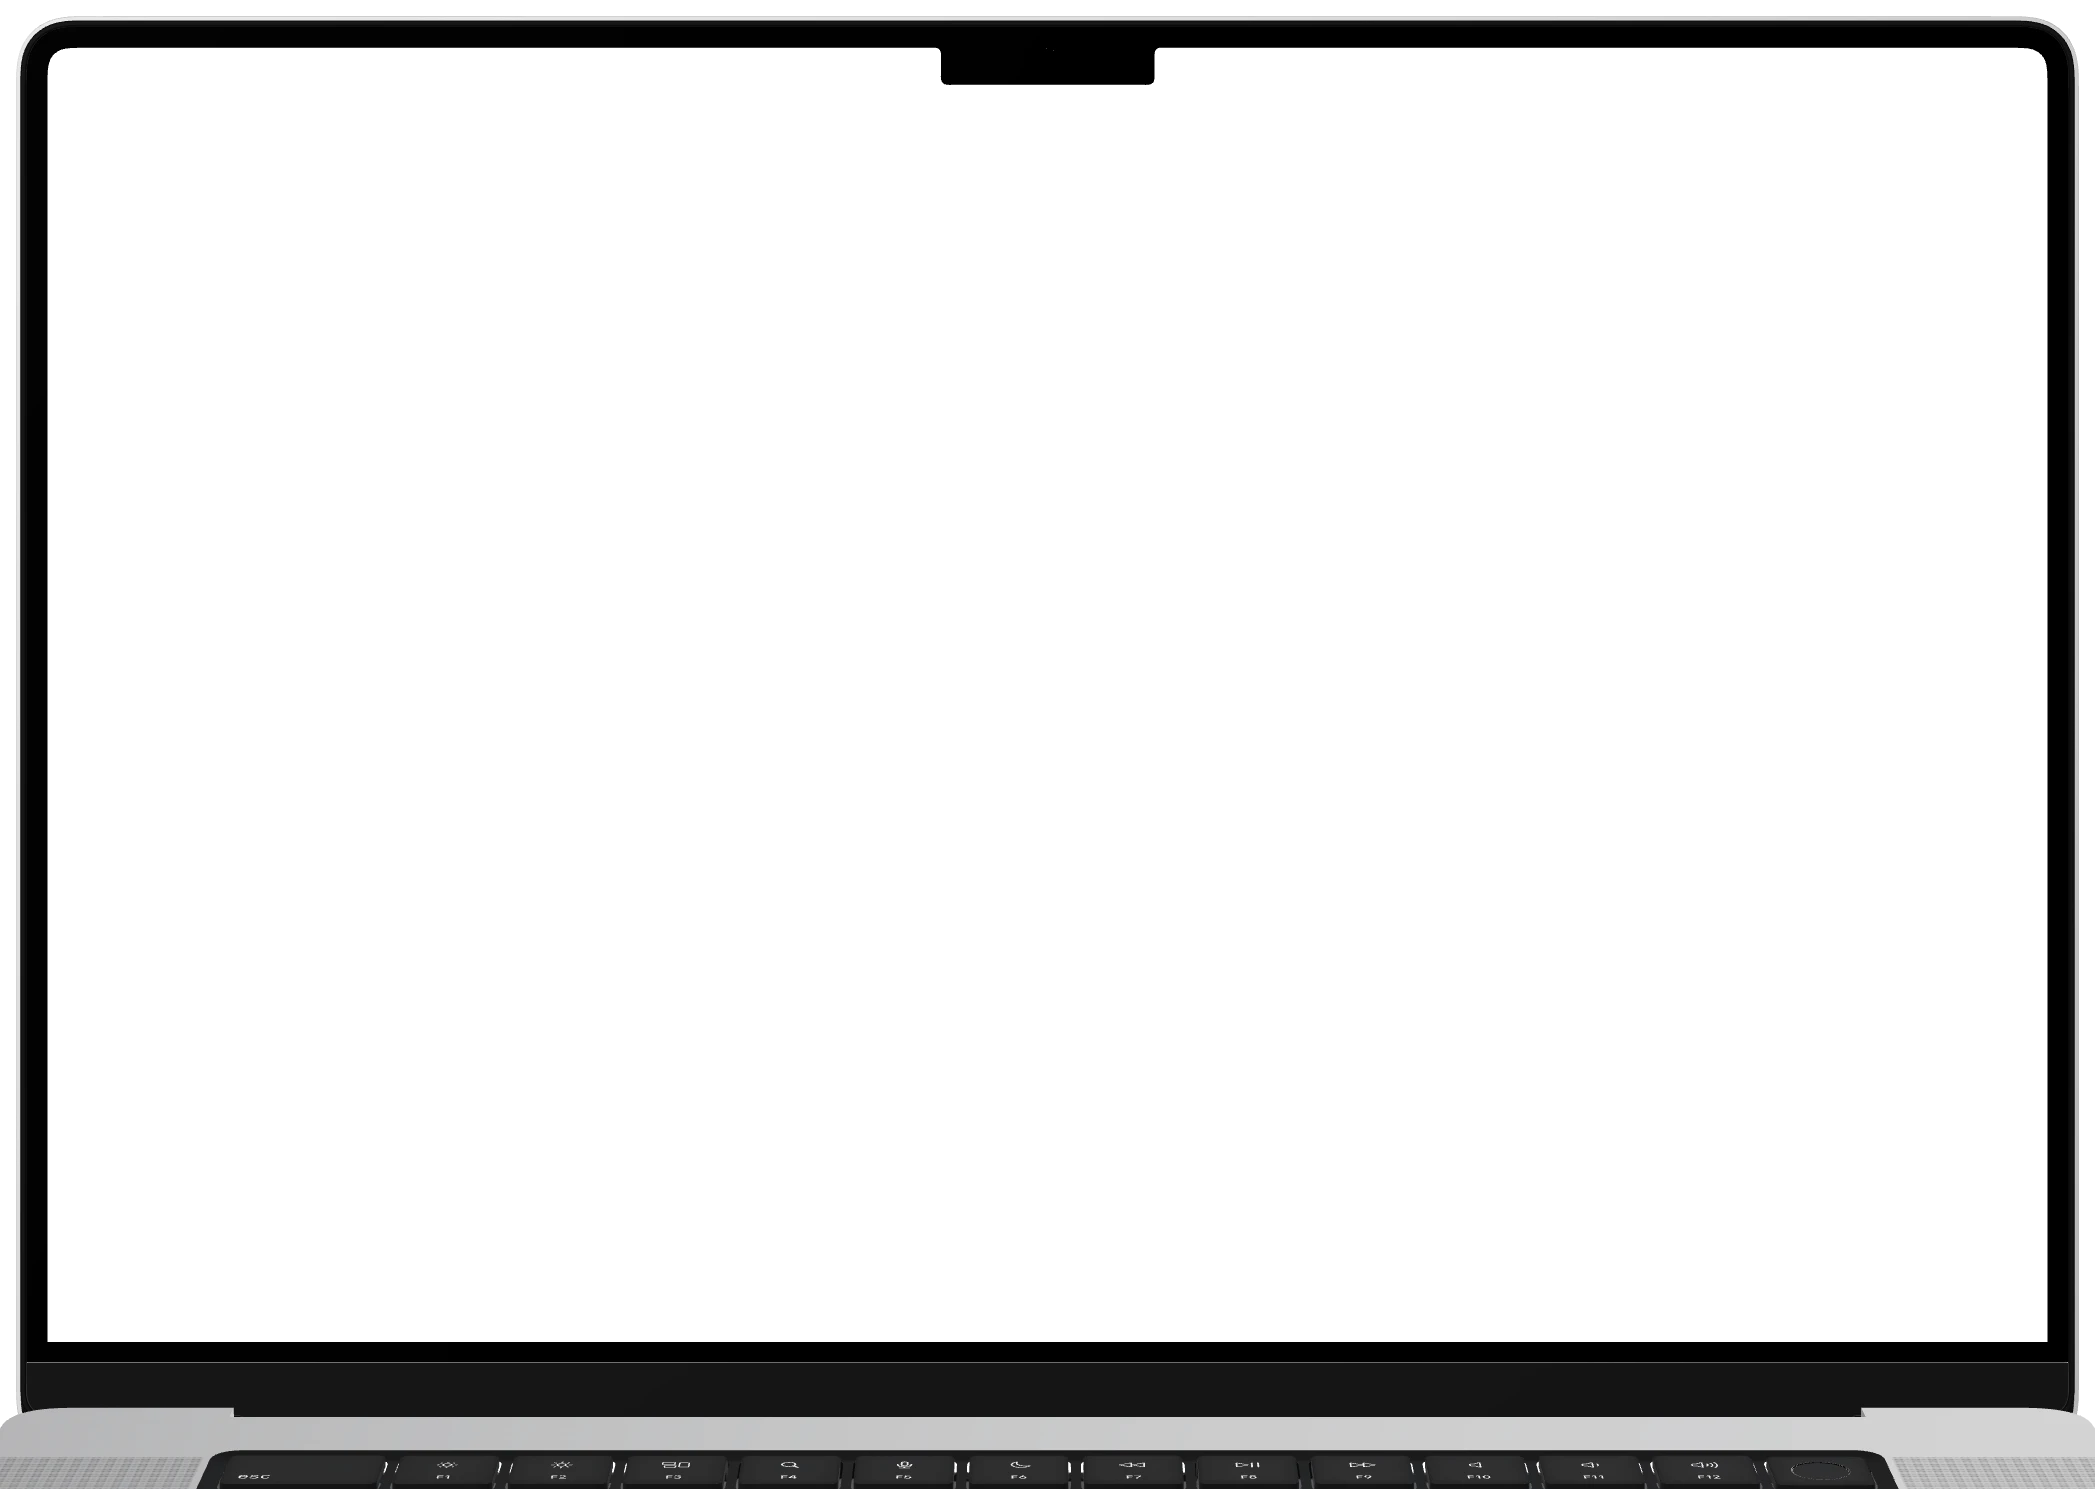
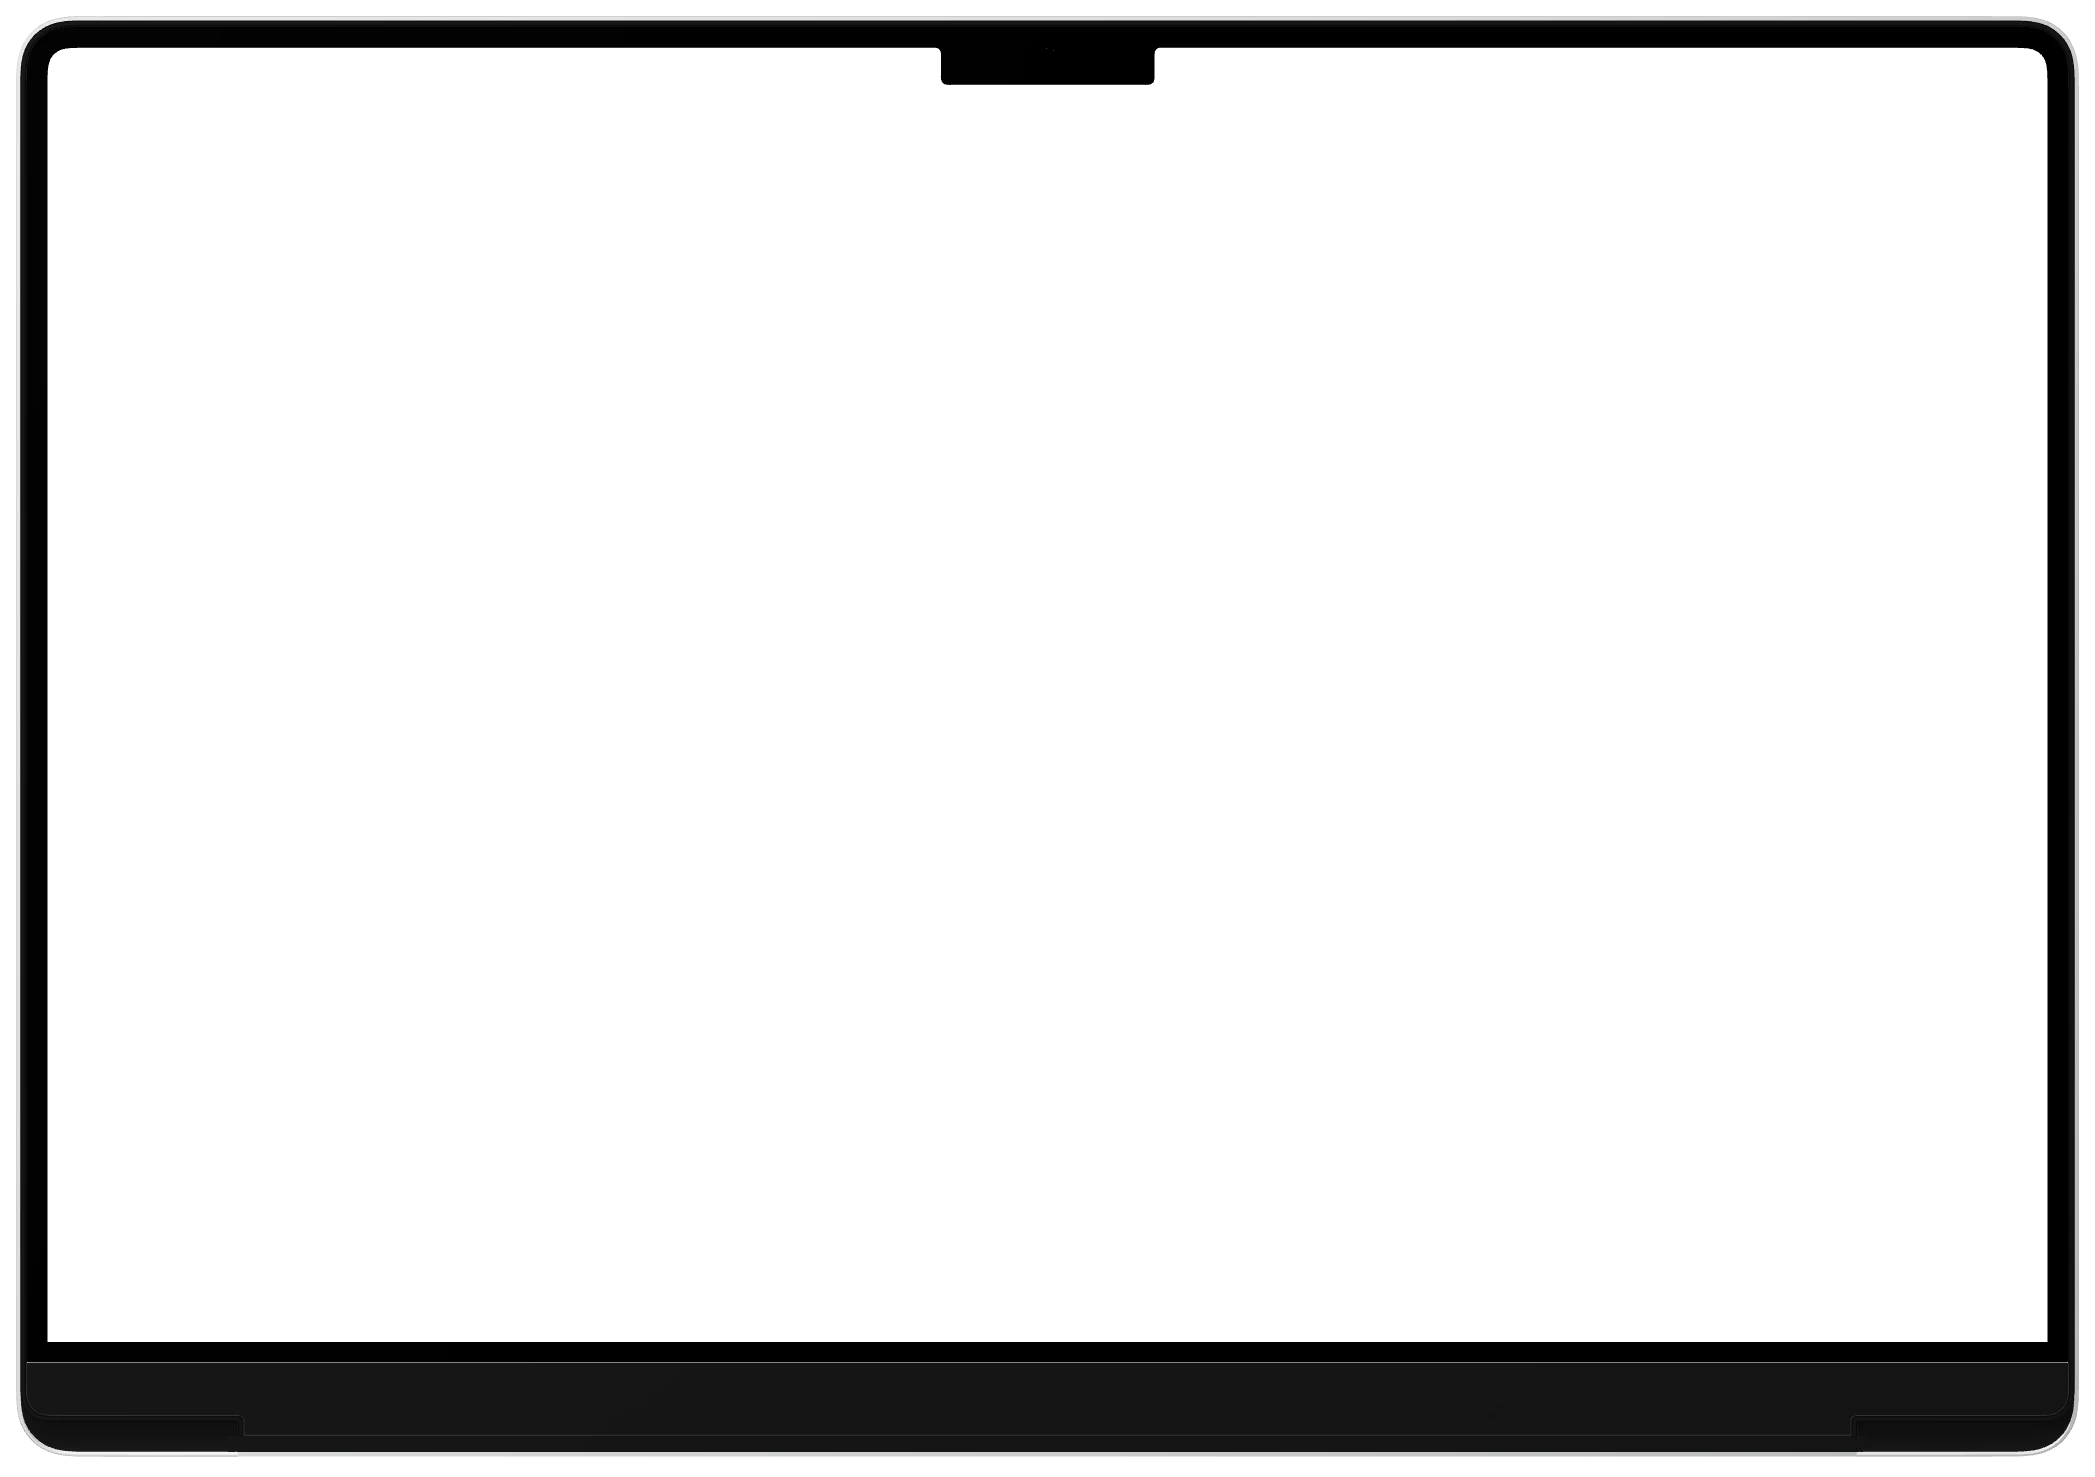
feat(ui): frame a 2D macOS stream in the MacBook's lid alone (#765)
* feat(ui): frame a 2D macOS stream in the MacBook's lid alone

The 2D frame showed the top of the base, down to the function keys, below
the lid. It is now the lid alone: render-macbook-frame.ts hides the base,
so the frame ends at the lid's chin and hinge. Release 0.22.5.

* ui: drop the hinge from the 2D MacBook frame

The lid's bezel has a cutout for the hinge, which the hinge, its cover
and the aluminium back showed through. The render now hides them and
fills the cutout with the bezel and its aluminium edge, so the frame is
the lid's outline alone.

* ui: crop the 2D MacBook frame to the parts that draw

The crop measured the hidden hinge meshes too, so the frame reached a
pixel below the lid's edge.

---------

Changed region(s): [[0.0, 0.9032, 1.0, 1.0]]

diff --git a/packages/ui/scripts/render-macbook-frame.ts b/packages/ui/scripts/render-macbook-frame.ts
@@ -7,8 +7,8 @@
 //
 // A perspective camera looks square at the screen's center, so the screen's opening is a rectangle
 // the stream fills, while the rest of the MacBook keeps its perspective, as in a photograph. The
-// frame keeps the lid and ends a little below the hinge: the whole keyboard would shrink the screen
-// in a viewer's space, and the top of the base still shows it is a MacBook. The opening is wherever the
+// frame is the lid alone, without the base or the hinge under the lid: a keyboard below the screen
+// would shrink the screen in a viewer's space. The opening is wherever the
 // screen shows, so the notch stays in the frame over its top edge; `notch` reports the share of the
 // opening's height the notch takes; RemoteControl starts the stream at the top, under the notch.
 import * as THREE from 'three';
@@ -23,8 +23,6 @@ import { createStudioEnvironment } from '../src/components/studio-environment';
 const LID_DEGREES = 100;
 const DISTANCE = 300;
 const SCREEN_PIXELS = 2000;
-// How much of the base shows below the hinge, as a share of the screen's height.
-const BASE_SHOWN = 0.036;
 
 const params = new URLSearchParams(location.search);
 const modelUrl = params.get('model');
@@ -33,12 +31,60 @@ if (!modelUrl) throw new Error('Pass ?model=<url of the prepared GLB>.');
 
 const loader = new GLTFLoader().setMeshoptDecoder(MeshoptDecoder);
 const { scene: model } = await loader.loadAsync(modelUrl);
+const base = model.getObjectByName('macbook-base');
 const lid = model.getObjectByName('macbook-lid');
 const screen = model.getObjectByName('macbook-screen');
-if (!lid || !(screen instanceof THREE.Mesh))
-  throw new Error('The model has no macbook-lid or macbook-screen.');
+if (!base || !lid || !(screen instanceof THREE.Mesh))
+  throw new Error('The model has no macbook-base, macbook-lid or macbook-screen.');
+base.visible = false;
+// The bezel has a cutout along its bottom for the hinge, which the hinge and its cover fill and the
+// aluminium back shows through. Without them the frame is the lid's outline alone: the cover's
+// strip is clipped off under the chin, the back draws only its outside, and a piece of bezel fills
+// the cutout. Measures are in the lid's own units, from the model.
+const bezel = model.getObjectByName('Object_131');
+const cover = model.getObjectByName('Object_111');
+const back = model.getObjectByName('Object_103');
+if (!(bezel instanceof THREE.Mesh) || !(cover instanceof THREE.Mesh) || !(back instanceof THREE.Mesh))
+  throw new Error("The model has no lid bezel, hinge cover or back where it's expected.");
+const CHIN_BOTTOM = 0.09;
+const BEZEL_BOTTOM = -0.71;
+const CUTOUT_HALF_WIDTH = 41;
+const BACK_BOTTOM = -0.94;
+const aluminium = back.material as THREE.Material;
+back.material = (back.material as THREE.Material).clone();
+(back.material as THREE.Material).side = THREE.FrontSide;
+const coverClip = new THREE.Plane(new THREE.Vector3(0, 1, 0), -CHIN_BOTTOM);
+cover.material = (cover.material as THREE.Material).clone();
+(cover.material as THREE.Material).clippingPlanes = [coverClip];
+const fill = new THREE.Mesh(
+  new THREE.PlaneGeometry(2 * CUTOUT_HALF_WIDTH, CHIN_BOTTOM - BEZEL_BOTTOM),
+  bezel.material as THREE.Material,
+);
+fill.position.set(0, (CHIN_BOTTOM + BEZEL_BOTTOM) / 2, -1.8);
+lid.add(fill);
+const backEdge = new THREE.Mesh(
+  new THREE.PlaneGeometry(2 * CUTOUT_HALF_WIDTH, BEZEL_BOTTOM - BACK_BOTTOM),
+  aluminium,
+);
+backEdge.position.set(0, (BEZEL_BOTTOM + BACK_BOTTOM) / 2, -1.85);
+lid.add(backEdge);
+// The hinge itself is the lid's other parts under the screen that are narrower than it.
+const lidBox = (object: THREE.Mesh) => {
+  object.geometry.computeBoundingBox();
+  return object.geometry.boundingBox!.clone().applyMatrix4(object.matrix);
+};
+const screenInLid = lidBox(screen);
+for (const object of lid.children) {
+  if (!(object instanceof THREE.Mesh) || object === screen || object === fill || object === backEdge)
+    continue;
+  const box = lidBox(object);
+  if (box.max.y < screenInLid.min.y && box.max.x - box.min.x < screenInLid.max.x - screenInLid.min.x) {
+    object.visible = false;
+  }
+}
 lid.rotation.x = lidRotation(LID_DEGREES);
 model.updateMatrixWorld(true);
+coverClip.applyMatrix4(lid.matrixWorld);
 
 // The screen faces along the lid's turned z axis; its up is the lid's turned y axis.
 const turn = new THREE.Quaternion().setFromAxisAngle(new THREE.Vector3(1, 0, 0), lid.rotation.x);
@@ -53,11 +99,11 @@ camera.lookAt(target);
 camera.updateMatrixWorld(true);
 camera.updateProjectionMatrix();
 
-// Bounds of a set of meshes on the camera's image, in normalized device coordinates.
+// Bounds of the meshes that draw, on the camera's image, in normalized device coordinates.
 const viewBounds = (root: THREE.Object3D) => {
   const box = new THREE.Box2(new THREE.Vector2(Infinity, Infinity), new THREE.Vector2(-Infinity, -Infinity));
   const point = new THREE.Vector3();
-  root.traverse((object) => {
+  root.traverseVisible((object) => {
     if (!(object instanceof THREE.Mesh)) return;
     const position = object.geometry.getAttribute('position');
     for (let i = 0; i < position.count; i++) {
@@ -70,12 +116,9 @@ const viewBounds = (root: THREE.Object3D) => {
 const frame = viewBounds(lid);
 const opening = viewBounds(screen);
 // The camera renders only the lid's part of its image, at the scale that makes the screen
-// SCREEN_PIXELS wide, with a margin around it, down to BASE_SHOWN below the hinge, which is the
-// lid's origin.
+// SCREEN_PIXELS wide, with a margin around it.
 const pixelsPerUnit = SCREEN_PIXELS / (opening.max.x - opening.min.x);
 frame.expandByScalar(16 / pixelsPerUnit);
-const hinge = new THREE.Vector3().setFromMatrixPosition(lid.matrixWorld).project(camera);
-frame.min.y = hinge.y - BASE_SHOWN * (opening.max.y - opening.min.y);
 const width = Math.round((frame.max.x - frame.min.x) * pixelsPerUnit);
 const height = Math.round((frame.max.y - frame.min.y) * pixelsPerUnit);
 camera.setViewOffset(
@@ -89,6 +132,7 @@ camera.setViewOffset(
 
 const renderer = new THREE.WebGLRenderer({ antialias: true, alpha: true, preserveDrawingBuffer: true });
 renderer.setPixelRatio(1);
+renderer.localClippingEnabled = true;
 renderer.setSize(width, height, false);
 renderer.outputColorSpace = THREE.SRGBColorSpace;
 renderer.setClearColor(0x000000, 0);

diff --git a/packages/ui/src/frame-assets.ts b/packages/ui/src/frame-assets.ts
@@ -39,7 +39,7 @@ export const defaultRemoteControlAssets: RemoteControlAssets = {
   macos: {
     frame: macbookFrame,
     // The render's screen opening and its notch's share, which render-macbook-frame.ts reports.
-    screen: { left: 0.022646, top: 0.032015, width: 0.954662, height: 0.869369, notch: 0.033124 },
+    screen: { left: 0.022646, top: 0.032263, width: 0.954662, height: 0.876106, notch: 0.033124 },
     model: () => import('./macbook-model').then((module) => module.default),
   },
 };

diff --git a/packages/ui/README.md b/packages/ui/README.md
@@ -18,9 +18,9 @@ logo is omitted. Pass your own images through the `assets` prop if you want fram
 
 ## MacBook frame
 
-A macOS guest streams inside a MacBook Pro. The default entry draws its lid with an image rendered
-from a 3D model, the stream in the screen's opening and the top of the base below the hinge, so the
-screen takes most of the space; `@limrun/ui/lite` draws a plainer one in CSS.
+A macOS guest streams inside a MacBook Pro. The default entry draws its lid alone with an image
+rendered from a 3D model, the stream in the screen's opening, so the screen takes most of the space;
+`@limrun/ui/lite` draws a plainer one in CSS.
 Neither draws it when `showFrame` is false. The stream starts at the top of the screen, so the notch
 covers the top of the guest's menu bar as it does on a MacBook. A guest with the 16-inch panel's
 shape, such as the 1728 × 1116 that Limrun's macOS instances draw, fills the screen; a guest of
